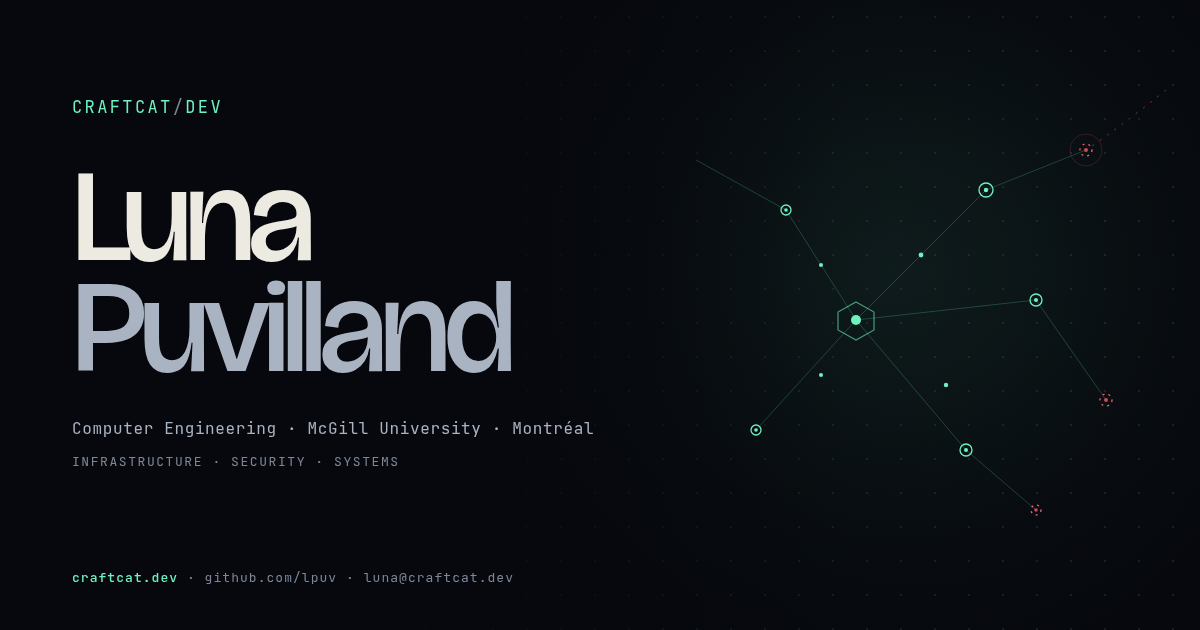
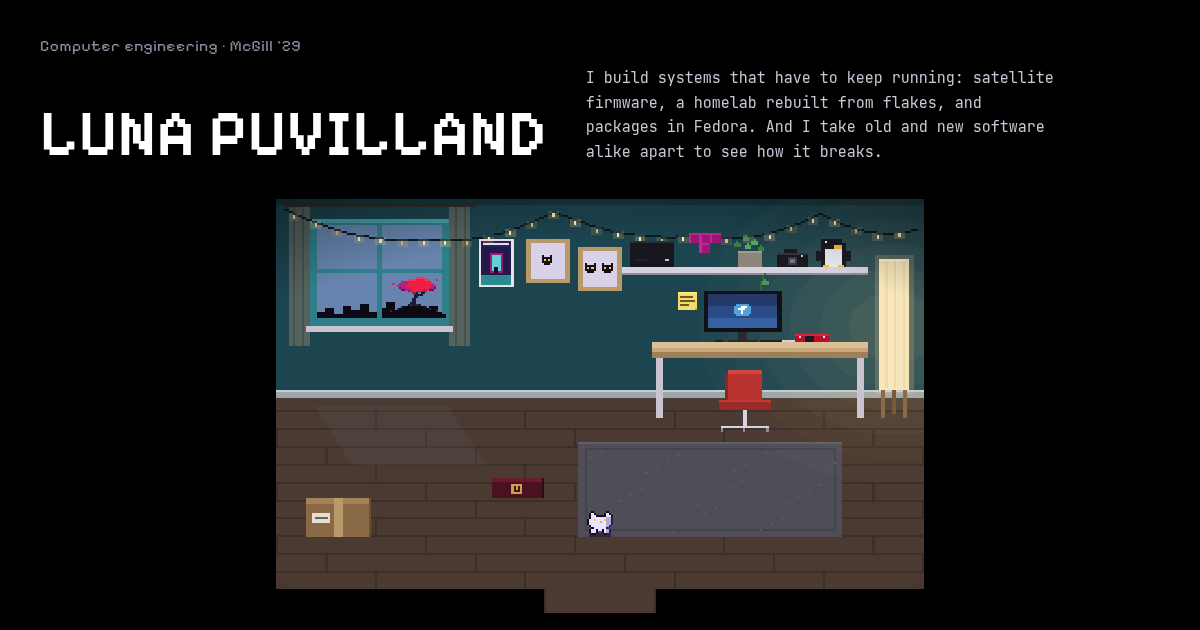
some more minor updates, added postit

diff --git a/src/scripts/workbench.ts b/src/scripts/workbench.ts
@@ -175,6 +175,19 @@ export function initWorkbench() {
       href: '/systems/fedora/',
     },
     {
+      id: 'note',
+      glint: [195, 46],
+      hit: [185, 45, 12, 13],
+      spot: [184, 116],
+      lines: () => [
+        '* (A sticky note on the wall. It says CVE-2012-2982.)',
+        "* (A Webmin bug from 2012. People assume it's dead. It isn't.)",
+        '* (Luna rebuilt the vulnerable server and wrote her own exploit, instead of using a public one.)',
+        '* (The fix was boring: patch it, and stop running it as root.)',
+      ],
+      href: '/systems/cve-2012-2982/',
+    },
+    {
       id: 'launchpad',
       glint: [257, 67],
       hit: [238, 64, 22, 12],
@@ -719,6 +732,13 @@ export function initWorkbench() {
     R(214, 55, 3, 1, '#fff');
     R(214, 67, 4, 5, '#2a2a30');
     R(209, 71, 14, 1, '#2a2a30');
+    // Sticky note: a CVE number, scribbled.
+    R(186, 47, 9, 9, '#f2dc6a');
+    R(186, 47, 9, 1, '#f8e98e');
+    R(187, 49, 6, 1, '#6a5a2a');
+    R(187, 51, 7, 1, '#6a5a2a');
+    R(187, 53, 4, 1, '#6a5a2a');
+    R(194, 55, 1, 1, '#c9b450');
     // Keyboard and the red board, cable running to the monitor.
     R(203, 71, 4, 1, '#202028');
     R(224, 71, 12, 1, '#202028');

diff --git a/src/styles/global.css b/src/styles/global.css
@@ -626,3 +626,6 @@ fieldset.field > legend { padding: 0; margin-bottom: 0.35rem; }
 
 .room__tap { display: none; font-family: var(--pixel); color: var(--dim); font-size: 0.95rem; width: 100%; }
 @media (max-width: 640px) { .room__tap { display: block; } }
+
+.flag { padding: 0.8rem 1.2rem; border-width: 2px; border-color: var(--sel); }
+.flag code { font-family: var(--mono); font-size: 1.05rem; color: var(--sel); }

diff --git a/DESIGN.md b/DESIGN.md
@@ -90,6 +90,15 @@ an empty void where Gaster speaks, in the style of the Chapter 1 intro.
 - He ends with "NOW. YOU MUST CREATE A VESSEL." Create goes to the contact form; Refuse returns you
   to the tree, and FRIEND is gone until reload.
 
+## For people who dig
+
+- `/robots.txt` disallows `/behind-the-tree/`, a classic CTF breadcrumb. That page (noindex, not in
+  the sitemap) has a flag and a link to `/?room=tree`.
+- `/.well-known/security.txt` is real: contact, expiry (renew yearly), canonical URL.
+- The workbench's sticky note is the CVE-2012-2982 record, so the room has a security object.
+- `public/og.png` is a render of the workbench from a production preview (the dev toolbar shows
+  up otherwise). Regenerate it when the room changes.
+
 ## Inner pages
 
 - `/systems/` work records with status filters; `/systems/[slug]/` record with a details box.
